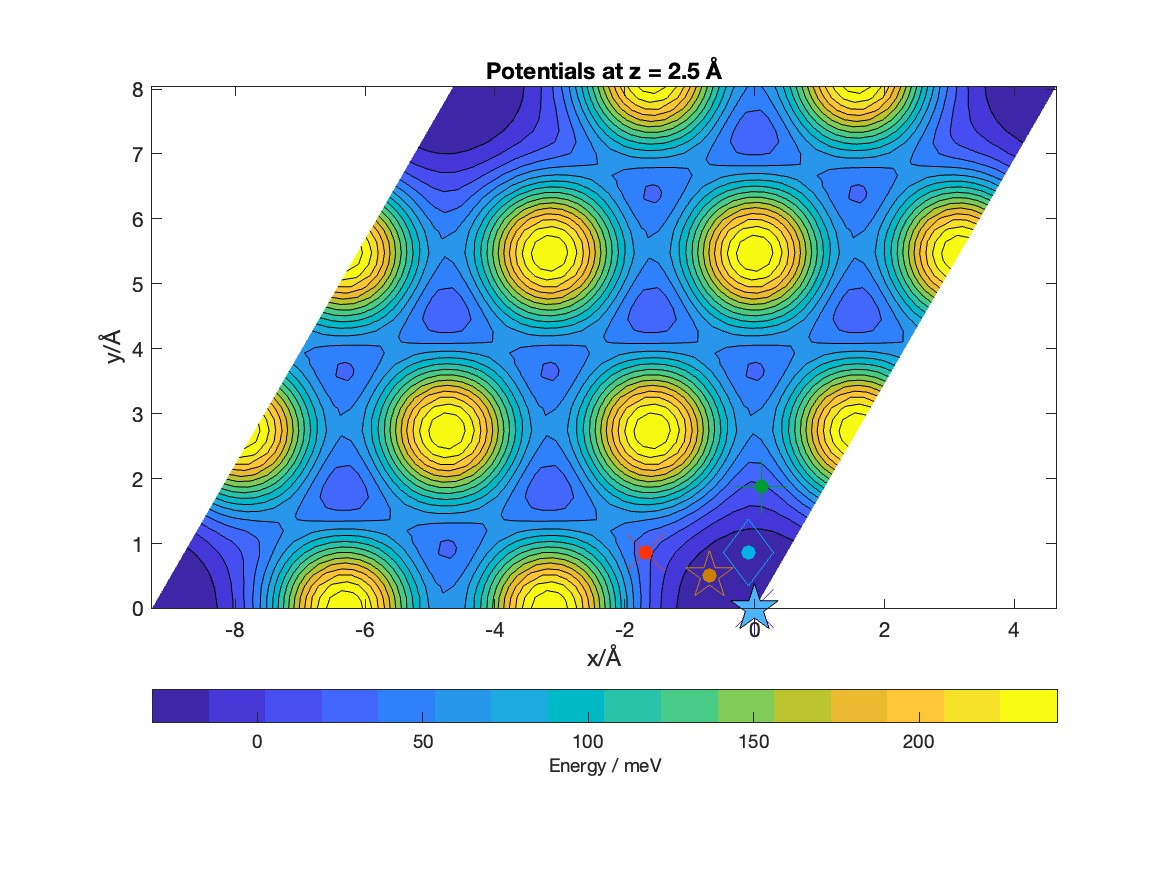
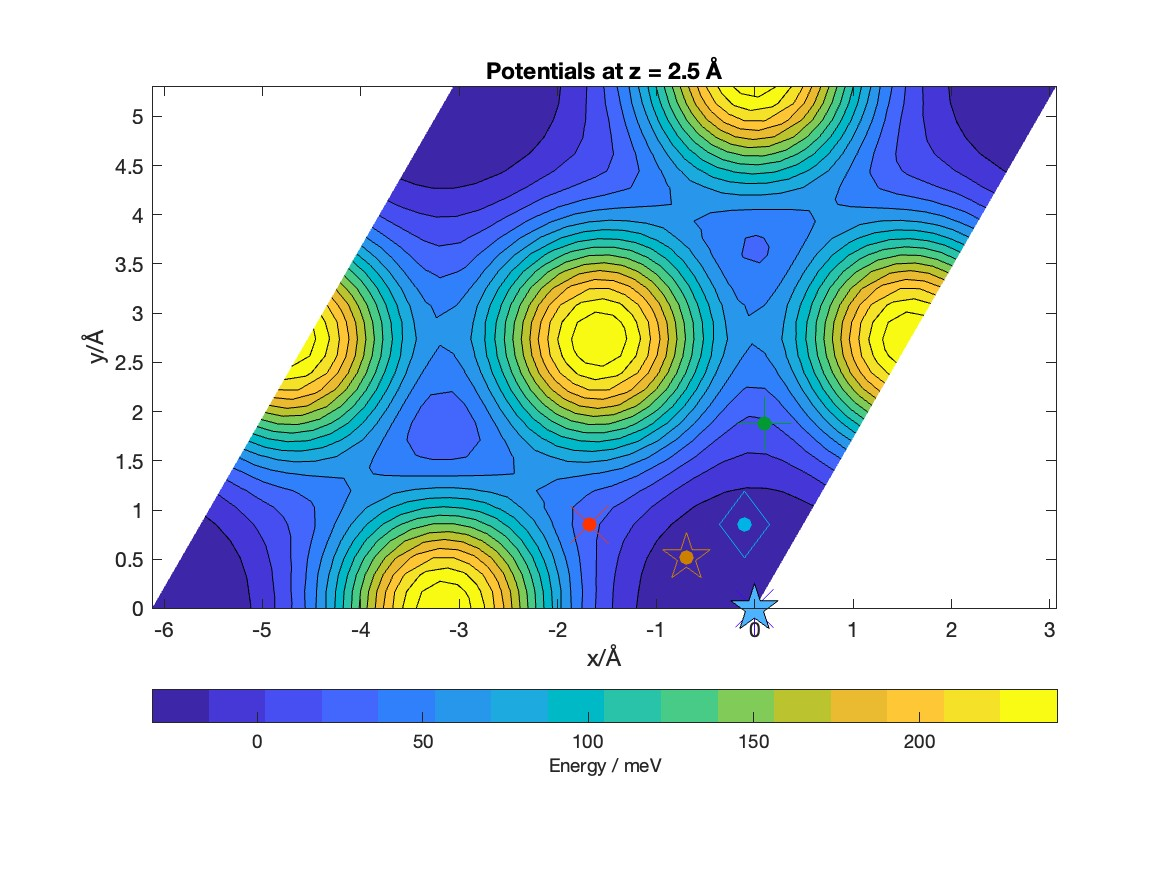
rdrg

diff --git a/potential_maker.m b/potential_maker.m
@@ -3,7 +3,7 @@ rng default;
 rng("shuffle");
 %Number of grid points, number of Z points, and number of lattices
 %contained in the overall superlattice (or rather the square root of that)
-Nxy = 16; Nz = 50; Nsuper = 3;
+Nxy = 16; Nz = 50; Nsuper = 2;
 %Theta = 0.0;
 Theta = (1/(Nsuper*Nsuper));
 disp('Theta = ' + Theta)
